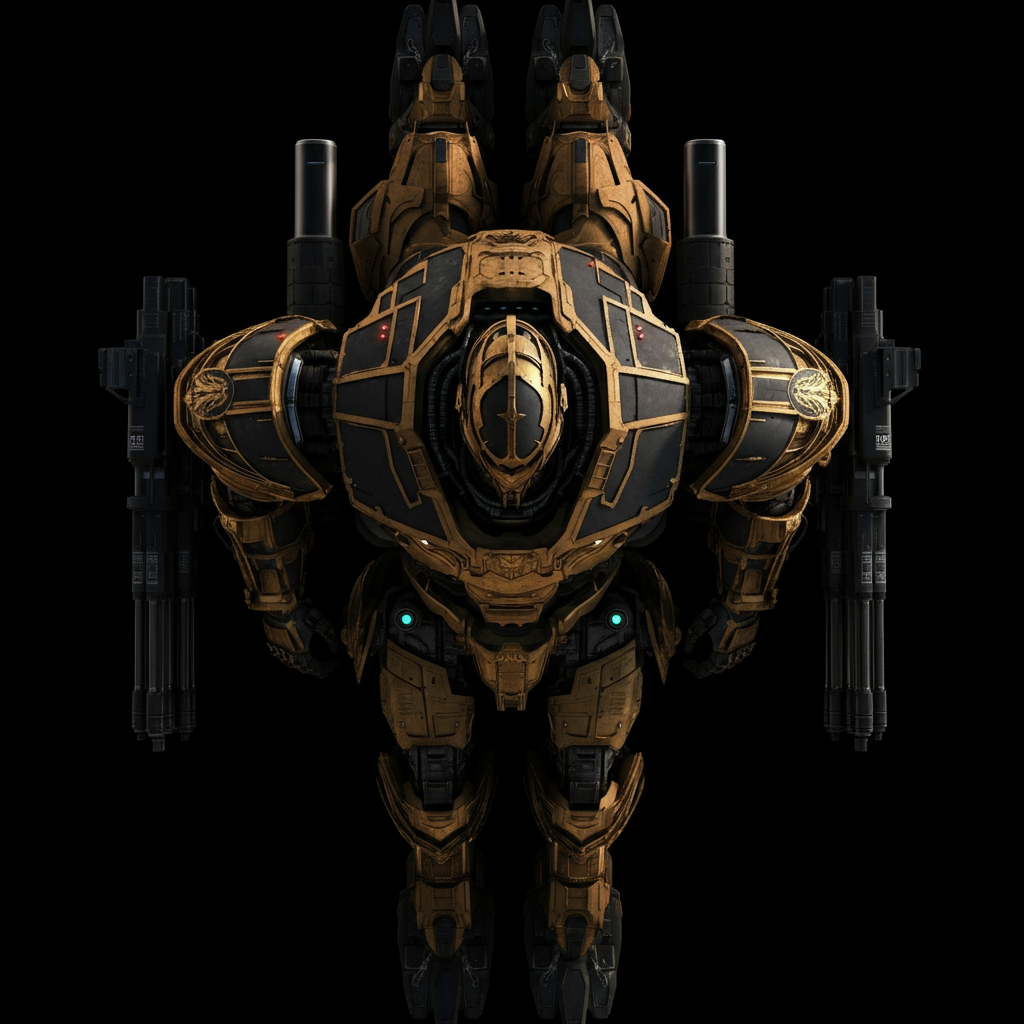
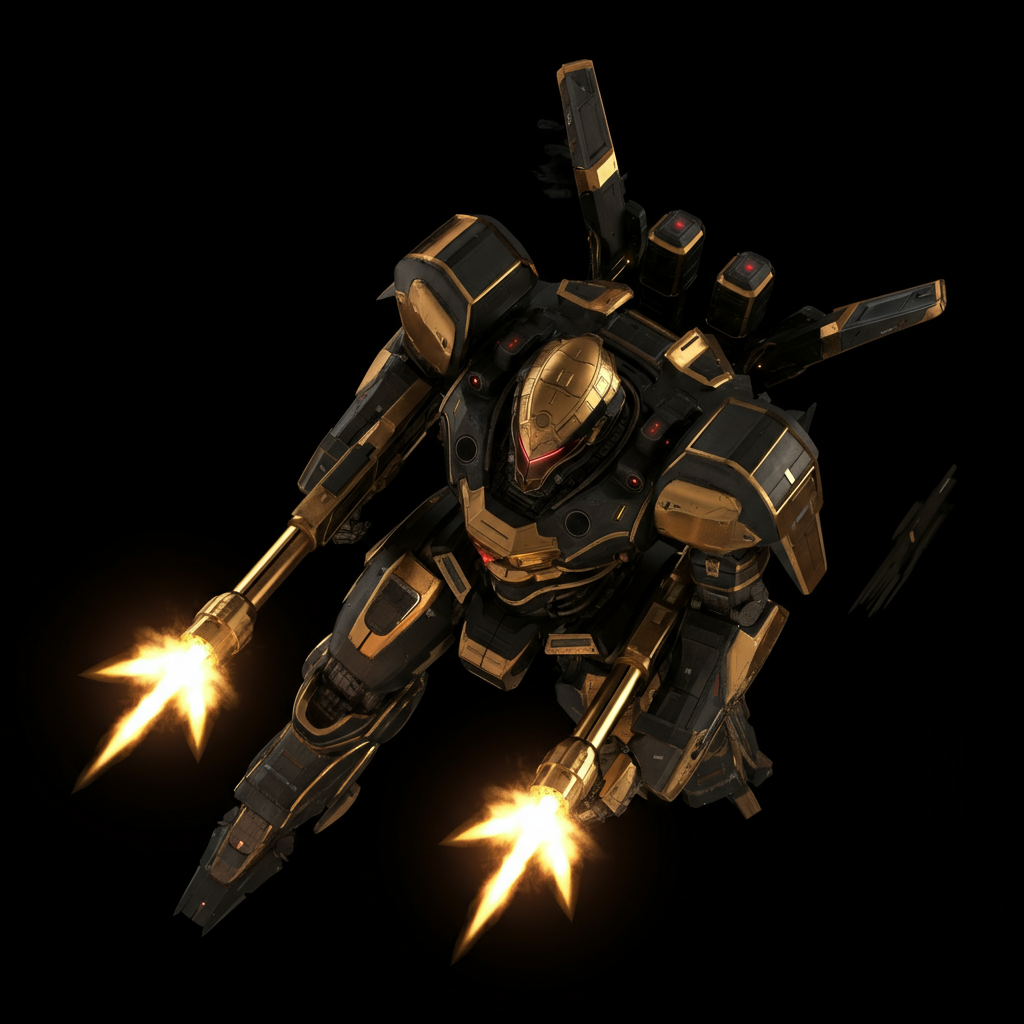
feat(v7.306): 로봇 전투 탑뷰 비스듬 공격포즈로 통일
- 로봇6 ships/top 위+살짝뒤 비스듬 각도+빔발사 공격포즈 재생성
- 완전탑뷰/완전정면 폐기, 외계는 함선형 유지

Changed region(s): [[0.0625, 0.0, 0.9375, 1.0], [0.9062, 0.4688, 0.9375, 0.5], [0.0625, 0.75, 0.0938, 0.7812]]

diff --git a/scripts/gen_assembly_assets.py b/scripts/gen_assembly_assets.py
@@ -99,9 +99,11 @@ def assets_for(unit_code):
             f"low heroic camera angle looking up, attacking stance, cinematic rim lighting, dramatic atmosphere, "
             f"character splash art key visual, full body in frame, {u['theme']}, {u['accent']} color scheme, {style_tail}")
         top_prompt = (
-            f"strict top-down orthographic view looking straight down from directly overhead at a giant {subj} "
-            f"seen from above, head/front pointing toward the top of the frame like a vertical game unit sprite, "
-            f"centered, isolated on solid pure black background, {u['theme']}, {u['accent']} color scheme, {style_tail}")
+            f"high-angle three-quarter view from above and slightly behind a giant {subj}, looking down at it from a "
+            f"steep overhead angle, dynamic attack pose lunging forward and firing its weapons with bright muzzle "
+            f"beams streaking ahead, we see the tops of its shoulders and head from above, like a top-down game unit "
+            f"sprite tilted in perspective, centered, isolated on solid pure black background, "
+            f"{u['theme']}, {u['accent']} color scheme, {style_tail}")
     out = [
         (f"assets/assembly/portrait/{u['ship_code']}.png", portrait_prompt),
         (f"assets/ships/top/{u['ship_code']}.png", top_prompt),
